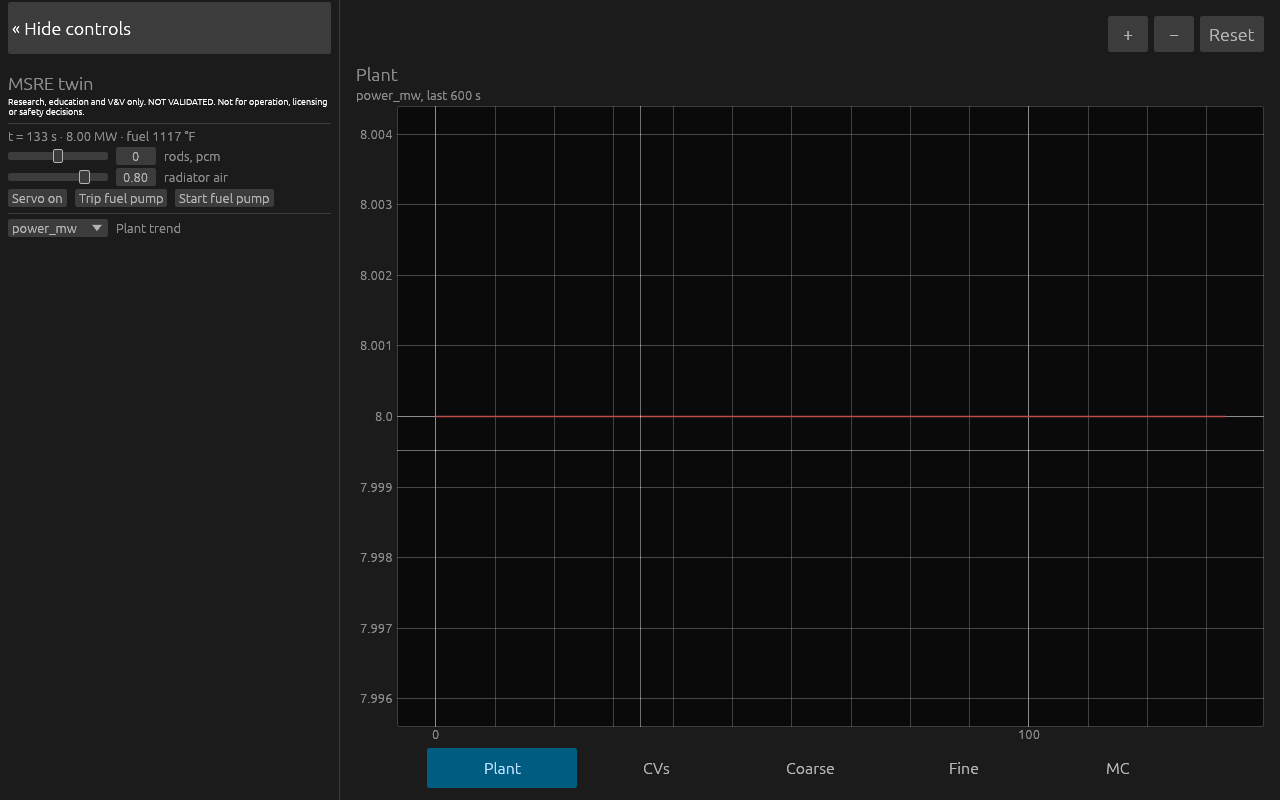
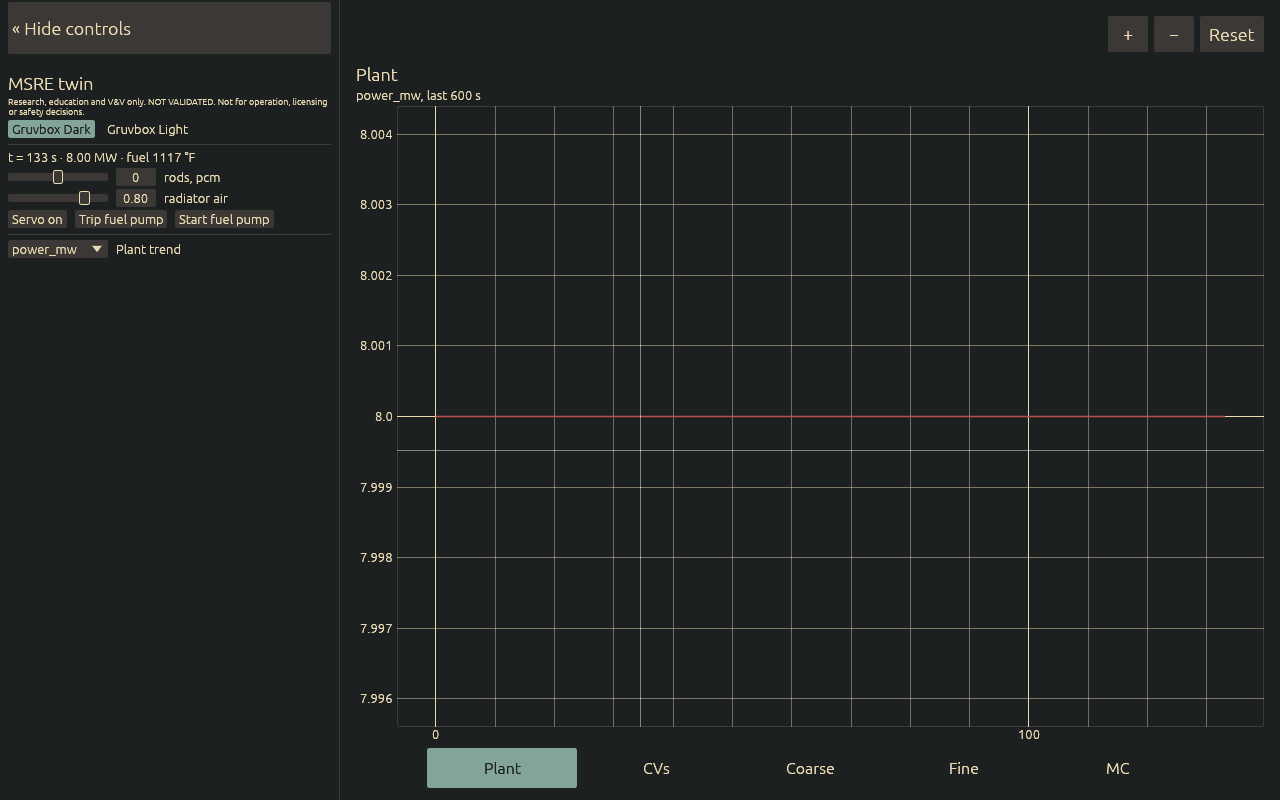
gh:#1745: TwinApp applies Gruvbox itself
Maintainer, 2026-11-25: the digital twin frontends should use gruvbox.
TwinApp, the common frontend struct, applies bugis::Theme (Gruvbox Dark
by default) on its first frame and again only when the reader switches
it from the new Dark / Light selector in the panel, so no adopter can
forget it. Tested on a headless egui context, every page drawn; the
screenshots are retaken in Gruvbox.

Claude-Session: https://claude.ai/code/session_01UnhtZTq6RjHh23MqwtV1Xb

diff --git a/crates/outram-park-digital-twin-engine/src/twin/app.rs b/crates/outram-park-digital-twin-engine/src/twin/app.rs
@@ -7,6 +7,10 @@
 //!
 //! - a bottom tab bar of the five pages (`bugis::tab_bar`, which fits a
 //!   390 px phone), with the short labels of [`TwinPage::tab_label`];
+//! - **Gruvbox** (maintainer, 2026-11-25: the twin frontends "should use
+//!   gruvbox"): `bugis::Theme`, Gruvbox Dark by default, applied by the app
+//!   itself on its first frame, with a Dark / Light selector in the panel,
+//!   so no adopter has to remember it;
 //! - the collapsible control panel (`bugis::web_demo::panel`, folded by
 //!   default on a narrow screen) holding the adopter's plant controls and
 //!   the research-only banner;
@@ -214,21 +218,49 @@ pub struct TwinApp<H: TwinHost> {
     pub window: TrendWindow,
     /// The plant column the trend shows.
     pub column: usize,
+    /// The Gruvbox variant (Dark by default).
+    pub theme: bugis::Theme,
+    /// The variant last applied to the context; `None` before the first
+    /// frame.
+    applied: Option<bugis::Theme>,
     panel: Panel,
+}
+
+/// The theme to apply this frame: `theme` when it differs from what was
+/// last applied (always on the first frame), else nothing.
+pub fn theme_to_apply(theme: bugis::Theme, applied: Option<bugis::Theme>) -> Option<bugis::Theme> {
+    (applied != Some(theme)).then_some(theme)
 }
 
 impl<H: TwinHost> TwinApp<H> {
     /// The app on the Plant page, trending column 1 (the first after time).
     pub fn new(host: H) -> Self {
-        TwinApp { host, page: TwinPage::Plant, window: TrendWindow::default(), column: 1, panel: Panel::default() }
+        TwinApp {
+            host,
+            page: TwinPage::Plant,
+            window: TrendWindow::default(),
+            column: 1,
+            theme: bugis::Theme::default(),
+            applied: None,
+            panel: Panel::default(),
+        }
     }
 
     /// Draw one frame (GUI code). Call from `eframe::App::ui`.
     pub fn ui(&mut self, ui: &mut Ui) {
+        if let Some(t) = theme_to_apply(self.theme, self.applied) {
+            t.apply(ui.ctx());
+            self.applied = Some(t);
+        }
         let title = self.host.title();
         let mut panel = core::mem::take(&mut self.panel);
         panel.show(ui, &title, |ui| {
             ui.label(RichText::new(BANNER).small().strong());
+            ui.horizontal(|ui| {
+                for t in bugis::Theme::ALL {
+                    ui.selectable_value(&mut self.theme, t, t.label());
+                }
+            });
             ui.separator();
             self.host.controls(ui);
             ui.separator();

diff --git a/crates/outram-park-digital-twin-engine/src/twin/app/tests.rs b/crates/outram-park-digital-twin-engine/src/twin/app/tests.rs
@@ -85,3 +85,54 @@ fn the_trend_range_does_not_magnify_round_off() {
     assert!((zero.1 - zero.0 - 1e-9).abs() < 1e-18);
     assert_eq!(y_range(&[]), None);
 }
+
+/// **Gruvbox by default** (maintainer, 2026-11-25). The theme is applied
+/// on the first frame and again only when the reader changes it; a frame
+/// of the app on a headless context leaves the context in Gruvbox Dark.
+#[test]
+fn the_app_applies_gruvbox() {
+    use bugis::Theme;
+    assert_eq!(theme_to_apply(Theme::GruvboxDark, None), Some(Theme::GruvboxDark));
+    assert_eq!(theme_to_apply(Theme::GruvboxDark, Some(Theme::GruvboxDark)), None);
+    assert_eq!(theme_to_apply(Theme::GruvboxLight, Some(Theme::GruvboxDark)), Some(Theme::GruvboxLight));
+
+    struct Quiet;
+    impl TwinHost for Quiet {
+        fn title(&self) -> String {
+            "quiet".into()
+        }
+        fn page_status(&self, _page: TwinPage) -> Result<(), TwinError> {
+            Ok(())
+        }
+        fn columns(&self) -> Vec<&'static str> {
+            vec!["time_s", "x"]
+        }
+        fn history(&self) -> Vec<Vec<f64>> {
+            vec![vec![0.0, 1.0], vec![1.0, 2.0]]
+        }
+        fn control_volumes(&self) -> ControlVolumes {
+            ControlVolumes::default()
+        }
+        fn monte_carlo(&self) -> McPageView {
+            McPageView::default()
+        }
+        fn multiphysics(&self, _r: MeshResolution) -> Vec<String> {
+            Vec::new()
+        }
+        fn controls(&mut self, _ui: &mut Ui) {}
+        fn act(&mut self, _a: TwinAction) {}
+    }
+    let ctx = egui::Context::default();
+    let mut app = TwinApp::new(Quiet);
+    assert_eq!(app.theme, Theme::GruvboxDark);
+    for page in TwinPage::ALL {
+        app.page = page;
+        let _ = ctx.run_ui(egui::RawInput::default(), |ui| app.ui(ui));
+    }
+    assert_eq!(ctx.theme(), egui::Theme::Dark);
+    assert_eq!(ctx.style_of(egui::Theme::Dark).visuals.panel_fill, Theme::GruvboxDark.visuals().panel_fill);
+    app.theme = Theme::GruvboxLight;
+    let _ = ctx.run_ui(egui::RawInput::default(), |ui| app.ui(ui));
+    assert_eq!(ctx.theme(), egui::Theme::Light);
+    assert_eq!(ctx.style_of(egui::Theme::Light).visuals.panel_fill, Theme::GruvboxLight.visuals().panel_fill);
+}
